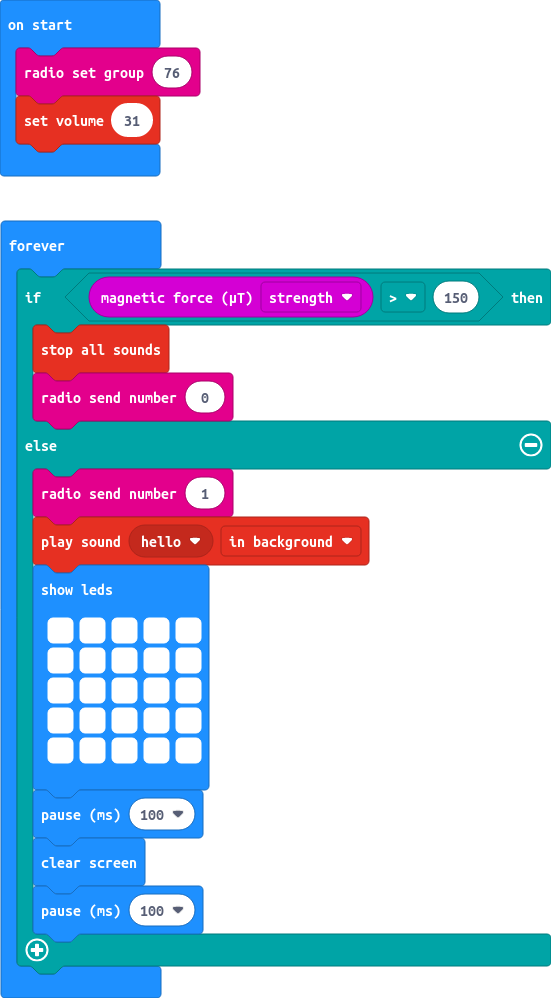
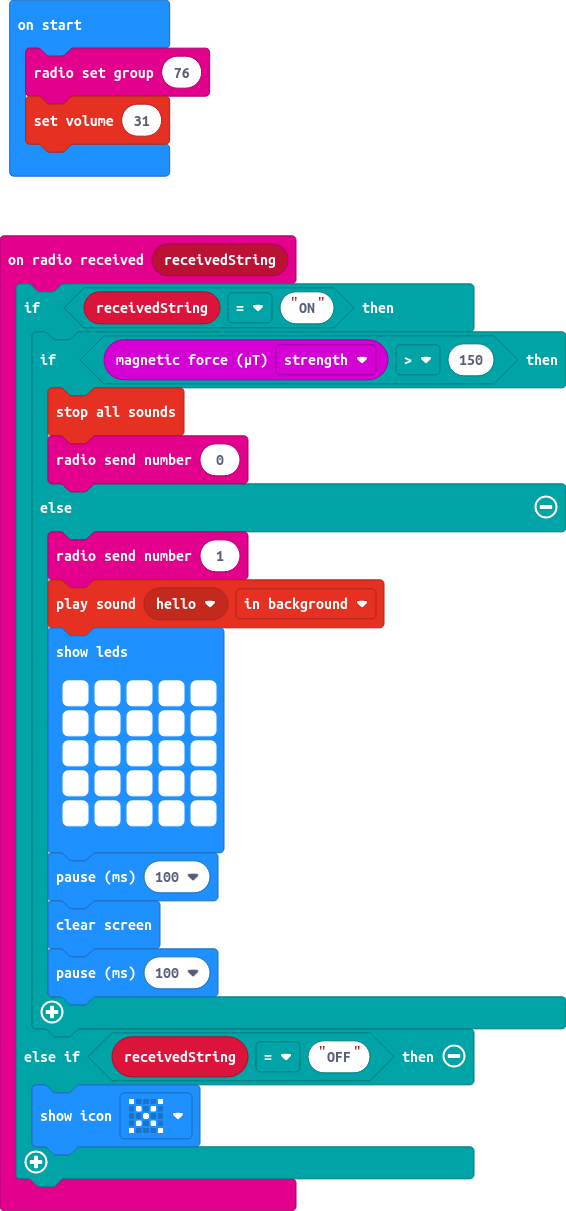
Update main.blocks, main.ts

diff --git a/main.ts b/main.ts
@@ -1,21 +1,25 @@
-radio.setGroup(76)
-music.setVolume(31)
-basic.forever(function () {
-    if (input.magneticForce(Dimension.Strength) > 150) {
-        music.stopAllSounds()
-        radio.sendNumber(0)
-    } else {
-        radio.sendNumber(1)
-        music.playSoundEffect(music.builtinSoundEffect(soundExpression.hello), SoundExpressionPlayMode.InBackground)
-        basic.showLeds(`
-            # # # # #
-            # # # # #
-            # # # # #
-            # # # # #
-            # # # # #
-            `)
-        basic.pause(100)
-        basic.clearScreen()
-        basic.pause(100)
+radio.onReceivedString(function (receivedString) {
+    if (receivedString == "ON") {
+        if (input.magneticForce(Dimension.Strength) > 150) {
+            music.stopAllSounds()
+            radio.sendNumber(0)
+        } else {
+            radio.sendNumber(1)
+            music.playSoundEffect(music.builtinSoundEffect(soundExpression.hello), SoundExpressionPlayMode.InBackground)
+            basic.showLeds(`
+                # # # # #
+                # # # # #
+                # # # # #
+                # # # # #
+                # # # # #
+                `)
+            basic.pause(100)
+            basic.clearScreen()
+            basic.pause(100)
+        }
+    } else if (receivedString == "OFF") {
+        basic.showIcon(IconNames.No)
     }
 })
+radio.setGroup(76)
+music.setVolume(31)
